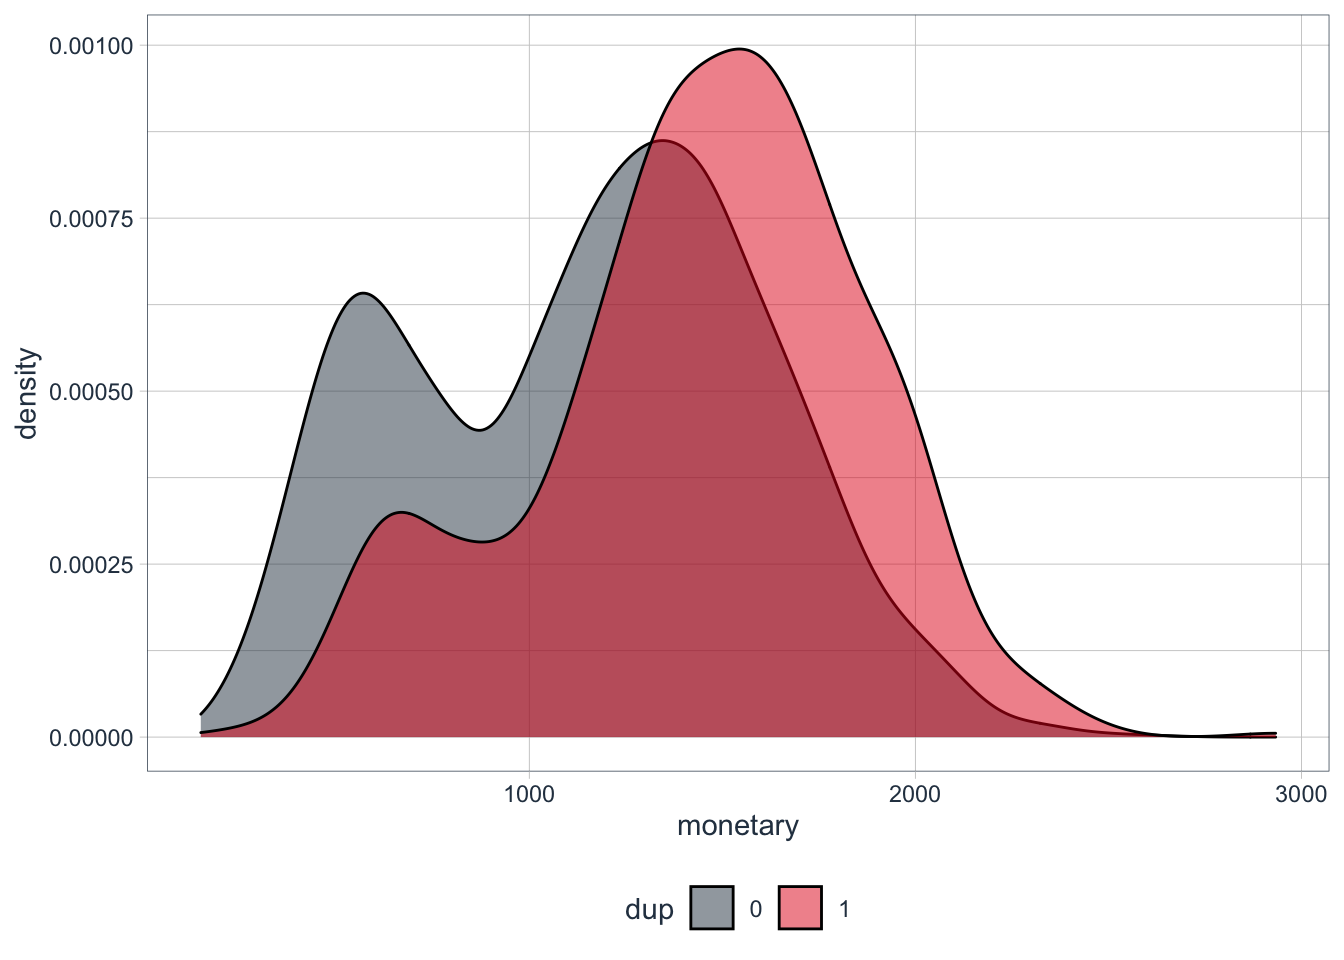
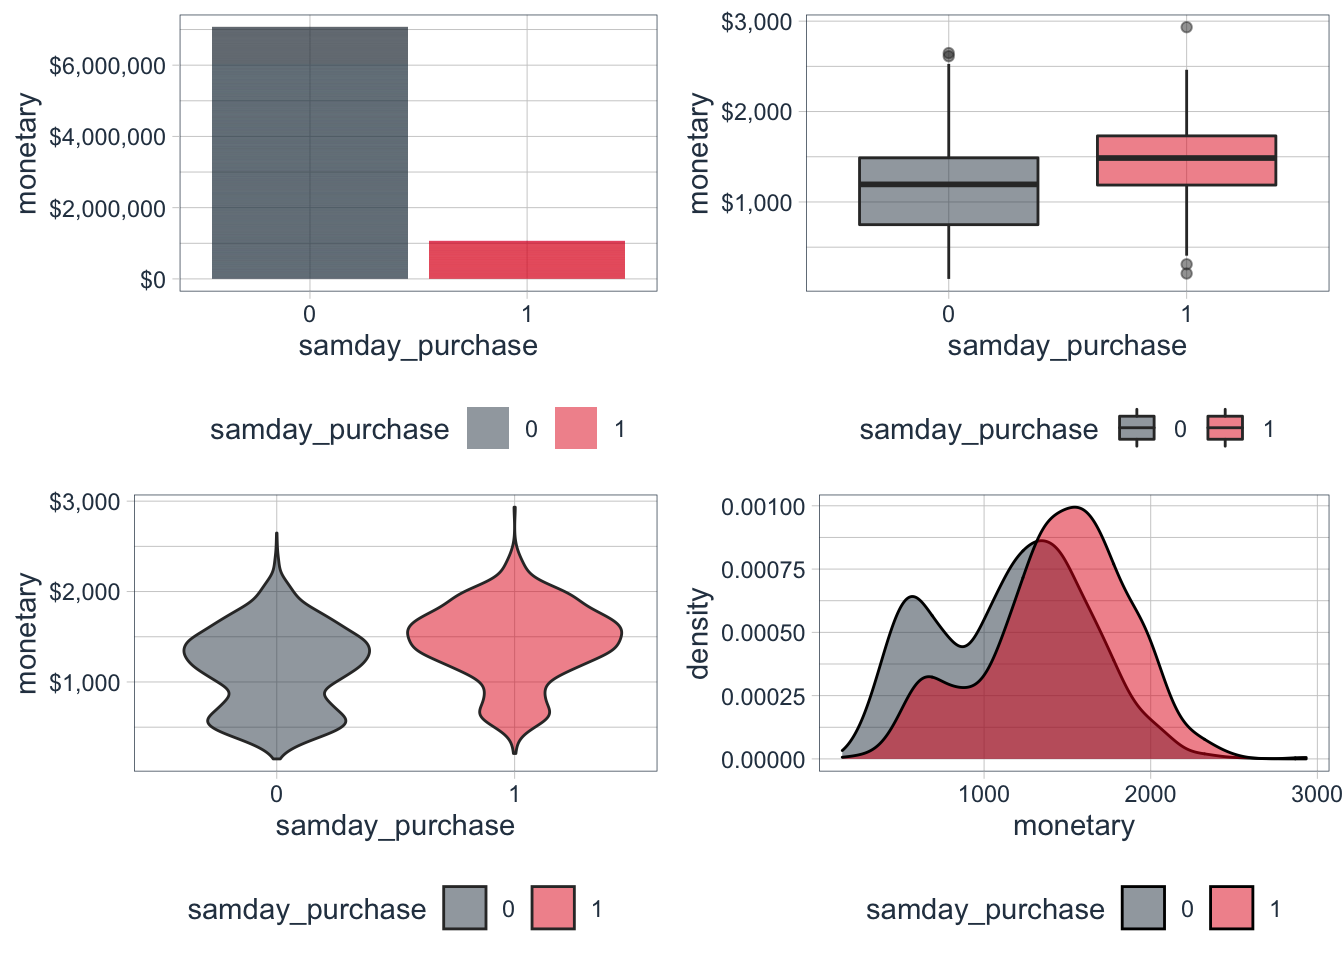
text change

diff --git a/content/post/2021-10-28-why-you-must-apply-rfm-matrics-to-your-company-right-away/index.en.html b/content/post/2021-10-28-why-you-must-apply-rfm-matrics-to-your-company-right-away/index.en.html
@@ -162,14 +162,18 @@ resp_df_raw$X1 &lt;- NULL</code></pre>
 <div id="checking-for-duplicates" class="section level3">
 <h3>3.1 Checking for duplicates</h3>
 <ul>
-<li>No duplicate data</li>
+<li>No duplicated data</li>
 <li>Diagnosed same-day repeated purchase
 <ul>
 <li>10.7% from total customers falls in this category</li>
 <li>0.6% of occurrence within transaction history</li>
 </ul></li>
 </ul>
-<p>Knowing that the level of occurance on sameday repeated purchase</p>
+<p>Important question to ask:</p>
+<ul>
+<li>Are these group statistically significant in respect to their revenue?</li>
+<li>Does same-day repeated purchase represent any meaning?</li>
+</ul>
 <pre class="r"><code>format_dollar  &lt;- function(x, ...) {
   paste0(&quot;$&quot;, formatC(as.numeric(x), format=&quot;f&quot;, digits = 0, big.mark=&quot;,&quot;))
 }
@@ -179,18 +183,17 @@ se &lt;- function(x) sqrt(var(x)/length(x))</code></pre>
 y_dup_df &lt;- trans_df[dup_pur_customer,]
 n_dup_df &lt;- trans_df[-dup_pur_customer,]
 
-y_dup_df$dup &lt;- TRUE
-n_dup_df$dup &lt;- FALSE
+y_dup_df$samday_purchase &lt;- TRUE
+n_dup_df$samday_purchase &lt;- FALSE
 
 
 cust_dup_tbl &lt;- rbind(y_dup_df, n_dup_df) %&gt;% 
   group_by(customer_id) %&gt;% 
   summarise(monetary = sum(amount),
             frequency = n(),
-            dup = mean(dup) %&gt;% ceiling() %&gt;% as.factor()) %&gt;% ungroup()</code></pre>
-<p>A quick statistics representations by these groups are not significantly different. It is not easy to make scientific decisions when the sample sizes differ in high degree. We all know often visualisation can be a great help.</p>
+            samday_purchase = mean(samday_purchase) %&gt;% ceiling() %&gt;% as.factor()) %&gt;% ungroup()</code></pre>
 <pre class="r"><code>cust_dup_tbl %&gt;% 
-  group_by(dup) %&gt;% 
+  group_by(samday_purchase) %&gt;% 
   summarise(count            = n_distinct(customer_id),
             med_pur_freq     = median(frequency),
             avg_pur_freq     = mean(frequency),
@@ -206,7 +209,7 @@ cust_dup_tbl &lt;- rbind(y_dup_df, n_dup_df) %&gt;%
 <thead>
 <tr>
 <th style="text-align:left;">
-dup
+samday_purchase
 </th>
 <th style="text-align:right;">
 count
@@ -304,20 +307,98 @@ $1,436
 </tr>
 </tbody>
 </table>
-<p>This has become more interesting. Customer monetary value, by nature, has two noticeable binary distributions (there can always be more) overlapped from one and another. It may be valid to make assumption that there is a threshold from its low-density region to high-density region in purchasing characteristic cluster in amount. Thorough analysis on their purchasing pattern can add valuable information for cross-sell, offer, pricing strategy. However, this is not my primary focus for now. I like to make quick, actionable marketing decisions on ‘target’ customers.</p>
-<pre class="r"><code>cust_dup_tbl %&gt;% 
-  ggplot(aes(x = monetary)) +
-  geom_density(alpha = 0.5, fill = palette_light()[3]) +
+</div>
+<div id="hypothesis-test-on-same-day-repeated-and-non-repeated-customer" class="section level3">
+<h3>3.2 Hypothesis Test on same-day repeated and non-repeated customer</h3>
+<ul>
+<li>Unbalanced Welch Two Sample t-test</li>
+<li>Balanced Welch Two Sample t-test</li>
+</ul>
+<p>Both the hypothesis tests rejects null hypothesis (p-value &lt; 0.05) that the difference in mean of customer “same-day duplicate” and “non-duplicate” groups are not significant.</p>
+<blockquote>
+<p>p &lt; .05 bar is too easy to pass and sometimes serves as an excuse for lower quality research."
+- Traflmow, editor of the Basic and Applied Social Psychology journal
+- Mentioned by Ashutosh Nandeshwar</p>
+</blockquote>
+<p>A small p-value does not indicate that the null hypothesis is false, in fact it is commonly understood that the extent of p-value should not footnote “statistically significant”. However, we can invoke the result is not by chance.</p>
+<pre class="r"><code>random_n_dup_df &lt;- sample_n(n_dup_df, 737) 
+random_n_dup_df$samday_purchase &lt;- FALSE
+
+sample_dup_tbl &lt;- rbind(y_dup_df, random_n_dup_df) %&gt;% 
+  group_by(customer_id) %&gt;% 
+  summarise(monetary = sum(amount),
+            frequency = n(),
+            samday_purchase = mean(samday_purchase) %&gt;% ceiling() %&gt;% as.factor()) %&gt;% ungroup()
+
+t.test(monetary~samday_purchase, data = cust_dup_tbl)</code></pre>
+<pre><code>## 
+##  Welch Two Sample t-test
+## 
+## data:  monetary by samday_purchase
+## t = -17, df = 955, p-value &lt;0.0000000000000002
+## alternative hypothesis: true difference in means between group 0 and group 1 is not equal to 0
+## 95 percent confidence interval:
+##  -320 -255
+## sample estimates:
+## mean in group 0 mean in group 1 
+##            1149            1436</code></pre>
+<pre class="r"><code>t.test(monetary~samday_purchase, data = sample_dup_tbl)</code></pre>
+<pre><code>## 
+##  Welch Two Sample t-test
+## 
+## data:  monetary by samday_purchase
+## t = 6, df = 1326, p-value = 0.00000002
+## alternative hypothesis: true difference in means between group 1 and group 0 is not equal to 0
+## 95 percent confidence interval:
+##   7.08 14.64
+## sample estimates:
+## mean in group 1 mean in group 0 
+##            80.3            69.5</code></pre>
+</div>
+<div id="visualisation-on-same-day-repeated-and-non-repeated-customer" class="section level3">
+<h3>3.3 Visualisation on same-day repeated and non-repeated customer</h3>
+<p>The visualisation here provides more insights.</p>
+<ul>
+<li><p>Customer monetary value, by nature, has two noticeable binary distributions (there always can be more) overlapped from one and another. It would be valid to make a weak assumptions in the threshold from its low-monetary value region to high-monetary value region.</p></li>
+<li><p>The difference in low-monetary region (approx. first quantile) to low-monetary region (approx. third quantile) proportions between these groups is indeed notable.</p></li>
+<li><p>Given the same weight on number of customers to these groups, their first quantile density shrinks by factor of ~2.</p></li>
+</ul>
+<p>The mean, median and other sample statistics had trouble to explain this proportional difference of these two regions. I believe this is where it gets quite tricky. Repeated same-day purchase records themselves are not a meaningful feature, but due to “confonding” effects it false appearence as if it has some predictive power between these two groups.</p>
+<p>Perhaps it is the <strong>accessibility</strong> upon purchase act as a confounder between monetary value and same-day purchase customer behaviour. With given customer geographical data or payment methods it would be worth to investigate further but from data what is given the hypothesis remains too strong of an assumptions to define any insightful meanings.</p>
+<pre class="r"><code>P3_C_dup &lt;- cust_dup_tbl %&gt;% ggplot(aes(x = samday_purchase, y = monetary, fill = samday_purchase)) +
+  geom_col(alpha = 0.5) +
+  scale_y_continuous(labels = scales::dollar_format()) +
   scale_fill_tq() +
-  theme_tq()</code></pre>
-<p><img src="{{< blogdown/postref >}}index.en_files/figure-html/unnamed-chunk-10-1.png" width="672" />
-The mean, median and other sample statistics had trouble to explain this proportional difference of these two regions. I believe this is where it gets tricky. Repeated same-day purchase records themselves are not a meaningful feature, but due to “confonding” effects it behaviour as if it has some predictive power between the two groups. Perhaps it is the <strong>accessibility</strong> upon purchase act as a confounder between monetary value and same-day purchase.</p>
-<pre class="r"><code>cust_dup_tbl %&gt;% 
-  ggplot(aes(x = monetary, fill = dup)) +
+  theme_tq()
+
+P3_B_dup &lt;- cust_dup_tbl %&gt;% ggplot(aes(x = samday_purchase, y = monetary, fill = samday_purchase)) +
+  geom_boxplot(alpha = 0.5) +
+  scale_y_continuous(labels = scales::dollar_format()) +
+  scale_fill_tq() +
+  theme_tq()
+
+P3_V_dup &lt;- cust_dup_tbl %&gt;% ggplot(aes(x = samday_purchase, y = monetary, fill = samday_purchase)) +
+  geom_violin(alpha = 0.5) +
+  scale_y_continuous(labels = scales::dollar_format()) +
+  scale_fill_tq() +
+  theme_tq()
+
+P3_D_dup &lt;- cust_dup_tbl %&gt;% 
+  ggplot(aes(x = monetary, fill = samday_purchase)) +
   geom_density(alpha = 0.5) +
   scale_fill_tq() +
-  theme_tq()</code></pre>
-<p><img src="{{< blogdown/postref >}}index.en_files/figure-html/unnamed-chunk-11-1.png" width="672" /></p>
+  theme_tq()
+
+gridExtra::grid.arrange(P3_C_dup, P3_B_dup, P3_V_dup, P3_D_dup, ncol = 2)</code></pre>
+<p><img src="{{< blogdown/postref >}}index.en_files/figure-html/unnamed-chunk-11-1.png" width="672" />
+### 3.4 Perspective Notes</p>
+<ul>
+<li>Comparative analysis and potential aspects on “what is the behind the scene” of customers at low and high monetary regions are needed.
+<ul>
+<li>Their revenue contributes (MRR or ARR) and churn rate needs to be modeled in order to measure their worth (risk measure) before the engagement strategy.</li>
+</ul></li>
+<li>Inquire customer information on geographical and payment method from database in order to approach on defining service “accessibility” and its scoring board.</li>
+</ul>
 </div>
 <div id="quick-overview-on-time-series-visualisation" class="section level3">
 <h3>4.0 Quick overview on time series visualisation</h3>
